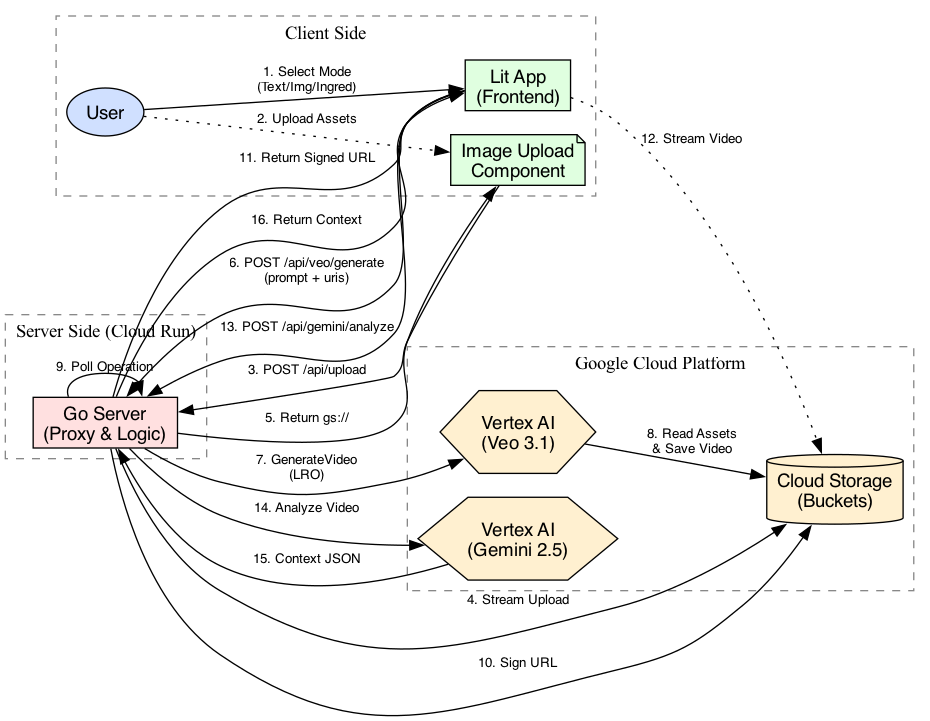
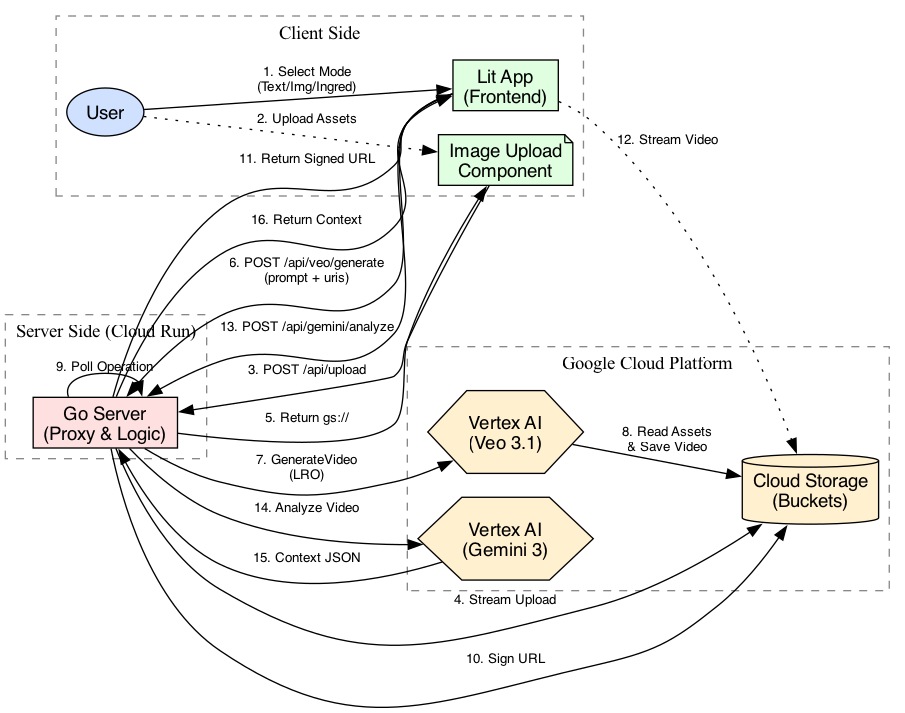
fix(run-veo-run): align dependencies with main (go 1.25.8), add trailing newlines, and update doc labels

diff --git a/experiments/run-veo-run/docs/continuity_strategy.md b/experiments/run-veo-run/docs/continuity_strategy.md
@@ -8,7 +8,7 @@ Veo 3.1 is an image/video-to-video model, but it relies heavily on the text prom
 ## The Solution: "Analyze & Augment" Loop
 
 ### 1. Analysis Step (Gemini)
-After Veo generates a clip, we automatically trigger a Gemini 2.5 Multimodal analysis of that clip.
+After Veo generates a clip, we automatically trigger a Gemini 3 Multimodal analysis of that clip.
 
 **Endpoint:** `/api/gemini/analyze-context`
 **Input:** `videoUri` (GCS)
